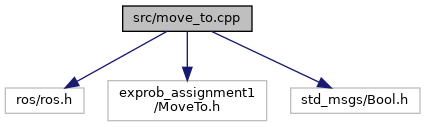
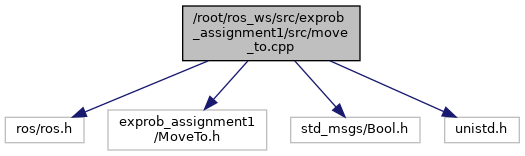
documentation updated

Changed region(s): [[0.0, 0.0236, 1.0, 0.9685], [0.5812, 0.4724, 0.6118, 0.5906], [0.3059, 0.4724, 0.3365, 0.5197]]

diff --git a/documentation/html/md__root_ros_ws_src_exprob_assignment1__r_e_a_d_m_e.html b/documentation/html/md__root_ros_ws_src_exprob_assignment1__r_e_a_d_m_e.html
@@ -1,0 +1,168 @@
+<!DOCTYPE html PUBLIC "-//W3C//DTD XHTML 1.0 Transitional//EN" "https://www.w3.org/TR/xhtml1/DTD/xhtml1-transitional.dtd">
+<html xmlns="http://www.w3.org/1999/xhtml">
+<head>
+<meta http-equiv="Content-Type" content="text/xhtml;charset=UTF-8"/>
+<meta http-equiv="X-UA-Compatible" content="IE=9"/>
+<meta name="generator" content="Doxygen 1.8.17"/>
+<meta name="viewport" content="width=device-width, initial-scale=1"/>
+<title>exprob_assignment1: EXPERIMENTAL ROBOTICS LABORATORY - ASSIGNMENT 1</title>
+<link href="tabs.css" rel="stylesheet" type="text/css"/>
+<script type="text/javascript" src="jquery.js"></script>
+<script type="text/javascript" src="dynsections.js"></script>
+<link href="search/search.css" rel="stylesheet" type="text/css"/>
+<script type="text/javascript" src="search/searchdata.js"></script>
+<script type="text/javascript" src="search/search.js"></script>
+<link href="doxygen.css" rel="stylesheet" type="text/css" />
+</head>
+<body>
+<div id="top"><!-- do not remove this div, it is closed by doxygen! -->
+<div id="titlearea">
+<table cellspacing="0" cellpadding="0">
+ <tbody>
+ <tr style="height: 56px;">
+  <td id="projectalign" style="padding-left: 0.5em;">
+   <div id="projectname">exprob_assignment1
+   </div>
+   <div id="projectbrief">Package for the Experimental Robotics Laboratory Course</div>
+  </td>
+ </tr>
+ </tbody>
+</table>
+</div>
+<!-- end header part -->
+<!-- Generated by Doxygen 1.8.17 -->
+<script type="text/javascript">
+/* @license magnet:?xt=urn:btih:cf05388f2679ee054f2beb29a391d25f4e673ac3&amp;dn=gpl-2.0.txt GPL-v2 */
+var searchBox = new SearchBox("searchBox", "search",false,'Search');
+/* @license-end */
+</script>
+<script type="text/javascript" src="menudata.js"></script>
+<script type="text/javascript" src="menu.js"></script>
+<script type="text/javascript">
+/* @license magnet:?xt=urn:btih:cf05388f2679ee054f2beb29a391d25f4e673ac3&amp;dn=gpl-2.0.txt GPL-v2 */
+$(function() {
+  initMenu('',true,false,'search.php','Search');
+  $(document).ready(function() { init_search(); });
+});
+/* @license-end */</script>
+<div id="main-nav"></div>
+<!-- window showing the filter options -->
+<div id="MSearchSelectWindow"
+     onmouseover="return searchBox.OnSearchSelectShow()"
+     onmouseout="return searchBox.OnSearchSelectHide()"
+     onkeydown="return searchBox.OnSearchSelectKey(event)">
+</div>
+
+<!-- iframe showing the search results (closed by default) -->
+<div id="MSearchResultsWindow">
+<iframe src="javascript:void(0)" frameborder="0" 
+        name="MSearchResults" id="MSearchResults">
+</iframe>
+</div>
+
+</div><!-- top -->
+<div class="PageDoc"><div class="header">
+  <div class="headertitle">
+<div class="title">EXPERIMENTAL ROBOTICS LABORATORY - ASSIGNMENT 1 </div>  </div>
+</div><!--header-->
+<div class="contents">
+<div class="textblock"><h1><a class="anchor" id="autotoc_md1"></a>
+BRIEF INTRODUCTION</h1>
+<p>This project implements the game of Cluedo played by a robot that has to explore an unknown environment searching for hints. The robot should move in every room to look for hints and when a new hypothesis is ready to be made it should return to the starting location and ask if the hypothesis is correct. </p>
+<h1><a class="anchor" id="autotoc_md2"></a>
+SOFTWARE ARCHITECTURE</h1>
+<p><img src="https://github.com/ZoeBetta/exprob_assignment1/blob/main/Images/Architecture.jpg?raw=true" alt="architecture of the software" class="inline"/> <br  />
+</p>
+<p>This architecture is composed of four nodes. Three of them are written in c++ language (robot, oracle and moveto) and the remaining one in python (hint). The communications between the different nodes are implemented either as ros publisher subscriber, when we do not want to guarantee the synchronization between the nodes, or as ros services and clients when we need the actions to be synchronized. The only node that communicates with the ontology is the hint node that, using the armor server, is able to access and modify the ontology. <br  />
+</p>
+<p><img src="https://github.com/ZoeBetta/exprob_assignment1/blob/main/Images/RobotStateDiagram.jpg?raw=true" alt="state diagram for the program" class="inline"/> <br  />
+</p>
+<p>At the beginning of the program the robot is in the state move to. If no hypothesis is received the robot moves to a random room looking for hints. From there if a new hint is received the hint is elaborated and the ontology checked for new hypothesis. AFter that, even if no hint is received the robot returns to the move state to either move to a new random room or move home if an hypothesis is retrieved. If the robot received an hypothesis it moves home and when reached it goes to the state asking if the hypothesis is correct; from there if the hypothesis is correct it stops because the goal has been reached, if instead the hypothesis is wrong it goes back to the move to state. <br  />
+</p>
+<p><img src="https://github.com/ZoeBetta/exprob_assignment1/blob/main/Images/SequenceDiagram.jpg?raw=true" alt="sequence diagram for the program" class="inline"/> <br  />
+</p>
+<p>At the beginnign the robot needs to move to a new random room. To do so it sends a request to the server MoveTo implemented in the moveto node. When the robot node receives the response that it reached the room it publishes true on the topic /reached, said topic is read by the subscriber in the node oracle. The oracle then randomly decides wheater to send a hint or not ( it generates a random number between 1 and 10 and if the number is grater than 3 it sends a hint ) and then randomly decides which hint to send. The hint is then sent with the publisher on the topic /hint, the node hint implements the subscriber for the topic /hint. To be noticed is that there is not the need for the robot to synchronize to the generation of hints, the robot waits a given amount of time ( in this case 0.5 second ) to simulate the activity of searching for hints in a room and then moves to another room. When a hint is received on the topic /hint the <a class="el" href="hint_8py.html" title="This program elaborates the hints received.">hint.py</a> node elaborates it and checks in the ontology if a new hypothesis can be made, in case no new hypothesis can be made it just starts waiting again for a new hint. If instead an hypothesis can be made it publishes it on the topic /hypotesis that is read by the subscriber implemented in the robot node. The robot node then makes a request to the service implemented in the oracle node to discover if the hypothesis received is the correct one. If the node answers true than the program ends, if instead the hypothesis is wrong the robot keeps searching for new hints.</p>
+<h1><a class="anchor" id="autotoc_md3"></a>
+INSTALLATION AND RUNNING PROCEDURE</h1>
+<p>In order to run this code it is necessary to have istalled in the same workspace the package armor that allows for the comunication and the handling of the ontology. Once the package is in the workspace it is mandatory to build it using the instruction in the github repository at the following link: In particular it is necessary to run the following command <code>./gradlew deployApp</code> in the armor folder. Also before running the program is good practice to check if the ontology file is present in the package folder and if the path specified in the file <a class="el" href="hint_8py.html" title="This program elaborates the hints received.">hint.py</a> ( that can be found inside the folder scripts ) is correct. The place where to change the path is signalled by two lines of code in all caps that specify that the following variable is the path. If there is the need to change the hints that can be received they are defined in the file <a class="el" href="oracle_8cpp.html" title="It sends random hints and checks if the hypothesis is the correct one.">oracle.cpp</a> in the folder src. The hints are formatted in the following way: each hint is a single string ID/class_type/name. Where class type can be who, what or where. If the total number of hint is changed be sure to change the dimension of the array and the maximum random number to be generated. Both these things are signalled by a line of code in all caps in correspondance to the line to change. Once completed all the previous steps to run the code it is sufficent to run in the workspace directory:</p><ol type="1">
+<li>catkin_make -&gt; to build the code and the dependencies</li>
+<li>roslaunch exprob_assignment1 sim.launch -&gt; to run the actual code When the process robot finishes it is necessary to end the program manually by pressing Ctr+C. </li>
+</ol>
+<h1><a class="anchor" id="autotoc_md4"></a>
+HOW THE CODE RUNS</h1>
+<p><img src="https://github.com/ZoeBetta/exprob_assignment1/blob/main/Images/Locations.jpg?raw=true" alt="diagram of the locations of the rooms" class="inline"/> <br  />
+ In the image above a schematic representation of the locations that are reachable by the robot in the program. The name of the places and even the coordinates are inspired by the Cluedo Game Board. For what concerns the persons and the weapons I used the names present in the game. The complete list of all the possible elements of hints is the following:</p><ul>
+<li>Suspected Person<ul>
+<li>Rev. Green</li>
+<li>Prof. Plum</li>
+<li>Col. Mustard</li>
+<li>Mrs. Peacock</li>
+<li>Miss. Scarlet</li>
+<li>Mrs. White</li>
+</ul>
+</li>
+<li>Probable Implements<ul>
+<li>Candlestick</li>
+<li>Dagger</li>
+<li>Lead Pipe</li>
+<li>Revolver</li>
+<li>Rope</li>
+<li>Spanner</li>
+</ul>
+</li>
+<li>Suspected Scene of Murder<ul>
+<li>Conservatory</li>
+<li>Lounge</li>
+<li>Kitchen</li>
+<li>Library</li>
+<li>Hall</li>
+<li>Study</li>
+<li>Ballroom</li>
+<li>Dining Room</li>
+<li>Billiard Room <br  />
+</li>
+</ul>
+</li>
+</ul>
+<p>All the possible hints that can be send are declared in the oracle node and there are hints whith the correct number of elements ( one person, one place, one weapon ), hint with more elements than required, hints with less elements than required. Hints are declared as a string that cointains the ID of the hint, the type of hint and the name of the specific instance, the elements are divided by the character '/'; for example "ID5/what/Rope". <br  />
+ In the following image we can see the normal output produed by the system while it is running: <br  />
+ <img src="https://github.com/ZoeBetta/exprob_assignment1/blob/main/Images/NormalBehaviour.jpg?raw=true" alt="Normal output behaviour" class="inline"/> <br  />
+ We can notice that the robot declares the requested position and synchronously it might receive an hint, the ID of the received hint is printed on the screen by the node hint. This synchronization is not forced and it is not needed for the correct behaviour of the architecture, it happens sinche the waiting times are long. By decreasing the waiting times, to for example 20 milliseconds we can notice that the hints received are no more synchronized and, when the system stops moving because the correc hypothesis is produced the robot stops moving but some hints keep being processed since there were more hints than the one processed and so the system fills the queue and before stopping it empties it. When a hypothesis is found that is both complete and consistent the hypothesis is printed on the screen and sent to the robot node. The robot moves to the Home location, at coordinates (0,0) and makes a request to the oracle server and prints if the hypothesis is correct or not. If it is wrong the robot starts moving again in other rooms to look for other hints. We can also notice that we don't receive a hint everytime the robot reaches a room, in those cases there is not anID in correspondance of a location to be reached. <br  />
+ In the following picture what happens when the correct hypothesis is sent. <br  />
+ <img src="https://github.com/ZoeBetta/exprob_assignment1/blob/main/Images/Final.jpg?raw=true" alt="Output for correct hypothesis" class="inline"/> <br  />
+ When an hypothesis is correct the system replies with correct hypothesis and prints on the screen the hypothesis presented in the classical Cluedo way. At that point the robot nodes finishes and stops. <br  />
+ I noticed that even if I had hints that were created with more than the correct amount of entities, if the system receives first three elements that are coherent ( one person, one weapon, one place ) it is able to send the hypothesis and check its correctness. For example the hint identified by ID8 is composed of: "ID8/who/Col. Mustard", "ID8/what/Candlestick","ID8/where/Dining Room", "ID8/who/Miss. Scarlet"; and so two possible suspects instead of one, it still sent the hypothesis and retrieves from it. <br  />
+ <img src="https://github.com/ZoeBetta/exprob_assignment1/blob/main/Images/ID8.jpg?raw=true" alt="Output for wrong hypothesis" class="inline"/> <br  />
+ </p>
+<h1><a class="anchor" id="autotoc_md5"></a>
+WORKING HYPOTHESIS</h1>
+<p>This system is semplified in order to have a structure that can be changed easily and improved as needed. It is assumed that the hints are from a finite set of possibilities that does not change in time, the winning hypothesis is fixed and can be changed only manually by working on the code. The node that should implement the movement to a location is simply a wait to simulate the motion without actually implementing it, we assume it takes some time to reach the room and that we don't have any obstacle. </p>
+<h2><a class="anchor" id="autotoc_md6"></a>
+SYSTEM'S FEATURES</h2>
+<p>The system is really flexible and is able to handle random hints received at random times. It also handles possible mistakes. In order to have a faster system it also saves the hypothesis that have already been made and it avoids repeating them, this prevents the robot from moving to home pointlessly every time it receives a hint from an hypothesis that is already been checked. <br  />
+ This system implements the randomness by using the rand function and the srand function. The srand is used to change the seed of the random function, it takes as input the time of the system and so the seed changes at every run of the code. By changing the seed we can ensure that the random number that are generated each time are different and different situations can be tested by running the code multiple times. </p>
+<h2><a class="anchor" id="autotoc_md7"></a>
+SYSTEM LIMITATIONS</h2>
+<p>The list of possible hints and the winning hypothesis is hard coded into the file <a class="el" href="oracle_8cpp.html" title="It sends random hints and checks if the hypothesis is the correct one.">oracle.cpp</a> making it harder to change and modify if needed. Another limitation is that since the movement system is just a wait there is no way for the user to follow the movement of the robot in a graphical way. This makes the understanding of the problem harder to understand from a user point of view. <br  />
+ Another problem that arises is that when the robot finds the correct hypothesis it turns off and it is not able to generate a new correct hypothesis and keep looking for hints again. </p>
+<h2><a class="anchor" id="autotoc_md8"></a>
+POSSIBLE TECHNICAL IMPROVMENTS</h2>
+<p>A future improvment will be for sure implementing the motion and provide the user with a graphical way to see where the robot is moving and what is the current state of the program in a more intuitive way. <br  />
+ Another improvment that can be made is the handling of the end of the robot process. There are two possible solutions: one is terminating in an automatic way all running nodes, this poses a problem on how to terminate the armor server that is started in the launch file. Another solution could be deleting all saved information from last game and start a new game with a new solution, this implies a way to check if the hypothesis requested is a complete and consistent one. </p>
+<h1><a class="anchor" id="autotoc_md9"></a>
+CONTACTS</h1>
+<p>Author: Zoe Betta <br  />
+</p>
+<p>E-mail: <a href="#" onclick="location.href='mai'+'lto:'+'zoe'+'.b'+'ett'+'a@'+'gma'+'il'+'.co'+'m'; return false;">zoe.b<span style="display: none;">.nosp@m.</span>etta<span style="display: none;">.nosp@m.</span>@gmai<span style="display: none;">.nosp@m.</span>l.co<span style="display: none;">.nosp@m.</span>m</a> <br  />
+</p>
+<p>E-mail: <a href="#" onclick="location.href='mai'+'lto:'+'s50'+'63'+'114'+'@s'+'tud'+'en'+'ti.'+'un'+'ige'+'.i'+'t'; return false;">s5063<span style="display: none;">.nosp@m.</span>114@<span style="display: none;">.nosp@m.</span>stude<span style="display: none;">.nosp@m.</span>nti.<span style="display: none;">.nosp@m.</span>unige<span style="display: none;">.nosp@m.</span>.it</a> </p>
+</div></div><!-- contents -->
+</div><!-- PageDoc -->
+<!-- start footer part -->
+<hr class="footer"/><address class="footer"><small>
+Generated by &#160;<a href="http://www.doxygen.org/index.html">
+<img class="footer" src="doxygen.png" alt="doxygen"/>
+</a> 1.8.17
+</small></address>
+</body>
+</html>

diff --git a/documentation/html/oracle_8cpp.html b/documentation/html/oracle_8cpp.html
@@ -5,7 +5,7 @@
 <meta http-equiv="X-UA-Compatible" content="IE=9"/>
 <meta name="generator" content="Doxygen 1.8.17"/>
 <meta name="viewport" content="width=device-width, initial-scale=1"/>
-<title>exprob_assignment1: src/oracle.cpp File Reference</title>
+<title>exprob_assignment1: /root/ros_ws/src/exprob_assignment1/src/oracle.cpp File Reference</title>
 <link href="tabs.css" rel="stylesheet" type="text/css"/>
 <script type="text/javascript" src="jquery.js"></script>
 <script type="text/javascript" src="dynsections.js"></script>
@@ -86,16 +86,16 @@ $(function() {
 </div><div class="textblock"><div class="dynheader">
 Include dependency graph for oracle.cpp:</div>
 <div class="dyncontent">
-<div class="center"><img src="oracle_8cpp__incl.png" border="0" usemap="#src_2oracle_8cpp" alt=""/></div>
-<map name="src_2oracle_8cpp" id="src_2oracle_8cpp">
-<area shape="rect" title="It sends random hints and checks if the hypothesis is the correct one." alt="" coords="402,5,514,32"/>
-<area shape="rect" title=" " alt="" coords="5,87,84,114"/>
-<area shape="rect" title=" " alt="" coords="109,87,247,114"/>
-<area shape="rect" title=" " alt="" coords="272,87,401,114"/>
-<area shape="rect" title=" " alt="" coords="425,87,491,114"/>
-<area shape="rect" title=" " alt="" coords="515,80,673,121"/>
-<area shape="rect" title=" " alt="" coords="697,87,768,114"/>
-<area shape="rect" title=" " alt="" coords="793,87,851,114"/>
+<div class="center"><img src="oracle_8cpp__incl.png" border="0" usemap="#_2root_2ros__ws_2src_2exprob__assignment1_2src_2oracle_8cpp" alt=""/></div>
+<map name="_2root_2ros__ws_2src_2exprob__assignment1_2src_2oracle_8cpp" id="_2root_2ros__ws_2src_2exprob__assignment1_2src_2oracle_8cpp">
+<area shape="rect" title="It sends random hints and checks if the hypothesis is the correct one." alt="" coords="355,5,561,47"/>
+<area shape="rect" title=" " alt="" coords="5,102,84,129"/>
+<area shape="rect" title=" " alt="" coords="109,102,247,129"/>
+<area shape="rect" title=" " alt="" coords="272,102,401,129"/>
+<area shape="rect" title=" " alt="" coords="425,102,491,129"/>
+<area shape="rect" title=" " alt="" coords="515,95,673,136"/>
+<area shape="rect" title=" " alt="" coords="697,102,768,129"/>
+<area shape="rect" title=" " alt="" coords="793,102,851,129"/>
 </map>
 </div>
 </div><table class="memberdecls">
@@ -297,16 +297,16 @@ ros::Publisher&#160;</td><td class="memItemRight" valign="bottom"><b>hint_pub</b
         </tr>
       </table>
 </div><div class="memdoc">
-<b>Initial value:</b><div class="fragment"><div class="line">={<span class="stringliteral">&quot;ID1/who/green&quot;</span>, <span class="stringliteral">&quot;ID1/what/candlestick&quot;</span>,<span class="stringliteral">&quot;ID1/where/conservatory&quot;</span>, </div>
-<div class="line">    <span class="stringliteral">&quot;ID2/who/Plum&quot;</span>, <span class="stringliteral">&quot;ID2/what/dagger&quot;</span>,<span class="stringliteral">&quot;ID2/where/lounge&quot;</span>,</div>
-<div class="line">    <span class="stringliteral">&quot;ID3/who/Mustard&quot;</span>, <span class="stringliteral">&quot;ID3/what/pipe&quot;</span>,<span class="stringliteral">&quot;ID3/where/kitchen&quot;</span>, <span class="stringliteral">&quot;ID3/what/rope&quot;</span>, </div>
-<div class="line">    <span class="stringliteral">&quot;ID4/who/Peacock&quot;</span>, <span class="stringliteral">&quot;ID4/what/revolver&quot;</span>,<span class="stringliteral">&quot;ID4/where/library&quot;</span>, </div>
-<div class="line">    <span class="stringliteral">&quot;ID5/who/Scarlet&quot;</span>, <span class="stringliteral">&quot;ID5/what/rope&quot;</span>, </div>
-<div class="line">    <span class="stringliteral">&quot;ID6/who/White&quot;</span>, <span class="stringliteral">&quot;ID6/what/spanner&quot;</span>,<span class="stringliteral">&quot;ID6/where/hall&quot;</span>, <span class="stringliteral">&quot;ID6/where/study&quot;</span>,    </div>
-<div class="line">    <span class="stringliteral">&quot;ID7/who/Plum&quot;</span>, <span class="stringliteral">&quot;ID7/what/dagger&quot;</span>,<span class="stringliteral">&quot;ID7/where/ballroom&quot;</span>, </div>
-<div class="line">    <span class="stringliteral">&quot;ID8/who/Mustard&quot;</span>, <span class="stringliteral">&quot;ID8/what/candlestick&quot;</span>,<span class="stringliteral">&quot;ID8/where/diningroom&quot;</span>, <span class="stringliteral">&quot;ID8/who/Scarlet&quot;</span>,</div>
-<div class="line">    <span class="stringliteral">&quot;ID9/who/White&quot;</span>, <span class="stringliteral">&quot;ID9/what/pipe&quot;</span>,   </div>
-<div class="line">    <span class="stringliteral">&quot;ID10/who/Green&quot;</span>, <span class="stringliteral">&quot;ID10/what/revolver&quot;</span>,<span class="stringliteral">&quot;ID10/where/conservatory&quot;</span>,       </div>
+<b>Initial value:</b><div class="fragment"><div class="line">={<span class="stringliteral">&quot;ID1/who/Rev. Green&quot;</span>, <span class="stringliteral">&quot;ID1/what/Candlestick&quot;</span>,<span class="stringliteral">&quot;ID1/where/Conservatory&quot;</span>, </div>
+<div class="line">    <span class="stringliteral">&quot;ID2/who/Prof. Plum&quot;</span>, <span class="stringliteral">&quot;ID2/what/Dagger&quot;</span>,<span class="stringliteral">&quot;ID2/where/Lounge&quot;</span>,</div>
+<div class="line">    <span class="stringliteral">&quot;ID3/who/Col. Mustard&quot;</span>, <span class="stringliteral">&quot;ID3/what/Lead Pipe&quot;</span>,<span class="stringliteral">&quot;ID3/where/Kitchen&quot;</span>, <span class="stringliteral">&quot;ID3/what/Rope&quot;</span>, </div>
+<div class="line">    <span class="stringliteral">&quot;ID4/who/Mrs. Peacock&quot;</span>, <span class="stringliteral">&quot;ID4/what/Revolver&quot;</span>,<span class="stringliteral">&quot;ID4/where/Library&quot;</span>,    </div>
+<div class="line">    <span class="stringliteral">&quot;ID5/who/Miss. Scarlet&quot;</span>, <span class="stringliteral">&quot;ID5/what/Rope&quot;</span>,   </div>
+<div class="line">    <span class="stringliteral">&quot;ID6/who/Mrs. White&quot;</span>, <span class="stringliteral">&quot;ID6/what/Spanner&quot;</span>,<span class="stringliteral">&quot;ID6/where/Hall&quot;</span>, <span class="stringliteral">&quot;ID6/where/Study&quot;</span>,   </div>
+<div class="line">    <span class="stringliteral">&quot;ID7/who/Prof. Plum&quot;</span>, <span class="stringliteral">&quot;ID7/what/Dagger&quot;</span>,<span class="stringliteral">&quot;ID7/where/Ballroom&quot;</span>,   </div>
+<div class="line">    <span class="stringliteral">&quot;ID8/who/Col. Mustard&quot;</span>, <span class="stringliteral">&quot;ID8/what/Candlestick&quot;</span>,<span class="stringliteral">&quot;ID8/where/Dining Room&quot;</span>, <span class="stringliteral">&quot;ID8/who/Miss. Scarlet&quot;</span>,</div>
+<div class="line">    <span class="stringliteral">&quot;ID9/who/Mrs. White&quot;</span>, <span class="stringliteral">&quot;ID9/what/Lead Pipe&quot;</span>, </div>
+<div class="line">    <span class="stringliteral">&quot;ID10/who/Rev. Green&quot;</span>, <span class="stringliteral">&quot;ID10/what/Revolver&quot;</span>,<span class="stringliteral">&quot;ID10/where/Conservatory&quot;</span>,      </div>
 <div class="line">}</div>
 </div><!-- fragment -->
 </div>

diff --git a/documentation/html/pages.html b/documentation/html/pages.html
@@ -5,7 +5,7 @@
 <meta http-equiv="X-UA-Compatible" content="IE=9"/>
 <meta name="generator" content="Doxygen 1.8.17"/>
 <meta name="viewport" content="width=device-width, initial-scale=1"/>
-<title>exprob_assignment1: /root/ros_ws/src/exprob_assignment1/src Directory Reference</title>
+<title>exprob_assignment1: Related Pages</title>
 <link href="tabs.css" rel="stylesheet" type="text/css"/>
 <script type="text/javascript" src="jquery.js"></script>
 <script type="text/javascript" src="dynsections.js"></script>
@@ -46,6 +46,7 @@ $(function() {
 });
 /* @license-end */</script>
 <div id="main-nav"></div>
+</div><!-- top -->
 <!-- window showing the filter options -->
 <div id="MSearchSelectWindow"
      onmouseover="return searchBox.OnSearchSelectShow()"
@@ -60,29 +61,16 @@ $(function() {
 </iframe>
 </div>
 
-<div id="nav-path" class="navpath">
-  <ul>
-<li class="navelem"><a class="el" href="dir_68267d1309a1af8e8297ef4c3efbcdba.html">src</a></li>  </ul>
-</div>
-</div><!-- top -->
 <div class="header">
   <div class="headertitle">
-<div class="title">src Directory Reference</div>  </div>
+<div class="title">Related Pages</div>  </div>
 </div><!--header-->
 <div class="contents">
-<table class="memberdecls">
-<tr class="heading"><td colspan="2"><h2 class="groupheader"><a name="files"></a>
-Files</h2></td></tr>
-<tr class="memitem:move__to_8cpp"><td class="memItemLeft" align="right" valign="top">file &#160;</td><td class="memItemRight" valign="bottom"><a class="el" href="move__to_8cpp.html">move_to.cpp</a></td></tr>
-<tr class="memdesc:move__to_8cpp"><td class="mdescLeft">&#160;</td><td class="mdescRight">It moves to the required position. <br /></td></tr>
-<tr class="separator:"><td class="memSeparator" colspan="2">&#160;</td></tr>
-<tr class="memitem:oracle_8cpp"><td class="memItemLeft" align="right" valign="top">file &#160;</td><td class="memItemRight" valign="bottom"><a class="el" href="oracle_8cpp.html">oracle.cpp</a></td></tr>
-<tr class="memdesc:oracle_8cpp"><td class="mdescLeft">&#160;</td><td class="mdescRight">It sends random hints and checks if the hypothesis is the correct one. <br /></td></tr>
-<tr class="separator:"><td class="memSeparator" colspan="2">&#160;</td></tr>
-<tr class="memitem:robot_8cpp"><td class="memItemLeft" align="right" valign="top">file &#160;</td><td class="memItemRight" valign="bottom"><a class="el" href="robot_8cpp.html">robot.cpp</a></td></tr>
-<tr class="memdesc:robot_8cpp"><td class="mdescLeft">&#160;</td><td class="mdescRight">This file implements the robot behaviour. <br /></td></tr>
-<tr class="separator:"><td class="memSeparator" colspan="2">&#160;</td></tr>
+<div class="textblock">Here is a list of all related documentation pages:</div><div class="directory">
+<table class="directory">
+<tr id="row_0_" class="even"><td class="entry"><span style="width:16px;display:inline-block;">&#160;</span><a class="el" href="md__root_ros_ws_src_exprob_assignment1__r_e_a_d_m_e.html" target="_self">EXPERIMENTAL ROBOTICS LABORATORY - ASSIGNMENT 1</a></td><td class="desc"></td></tr>
 </table>
+</div><!-- directory -->
 </div><!-- contents -->
 <!-- start footer part -->
 <hr class="footer"/><address class="footer"><small>

diff --git a/documentation/html/robot_8cpp.html b/documentation/html/robot_8cpp.html
@@ -5,7 +5,7 @@
 <meta http-equiv="X-UA-Compatible" content="IE=9"/>
 <meta name="generator" content="Doxygen 1.8.17"/>
 <meta name="viewport" content="width=device-width, initial-scale=1"/>
-<title>exprob_assignment1: src/robot.cpp File Reference</title>
+<title>exprob_assignment1: /root/ros_ws/src/exprob_assignment1/src/robot.cpp File Reference</title>
 <link href="tabs.css" rel="stylesheet" type="text/css"/>
 <script type="text/javascript" src="jquery.js"></script>
 <script type="text/javascript" src="dynsections.js"></script>
@@ -84,20 +84,22 @@ $(function() {
 <code>#include &quot;std_msgs/String.h&quot;</code><br />
 <code>#include &lt;string&gt;</code><br />
 <code>#include &lt;ctime&gt;</code><br />
+<code>#include &lt;unistd.h&gt;</code><br />
 </div><div class="textblock"><div class="dynheader">
 Include dependency graph for robot.cpp:</div>
 <div class="dyncontent">
-<div class="center"><img src="robot_8cpp__incl.png" border="0" usemap="#src_2robot_8cpp" alt=""/></div>
-<map name="src_2robot_8cpp" id="src_2robot_8cpp">
-<area shape="rect" title="This file implements the robot behaviour." alt="" coords="561,5,667,32"/>
-<area shape="rect" title=" " alt="" coords="5,87,84,114"/>
-<area shape="rect" title=" " alt="" coords="108,80,267,121"/>
-<area shape="rect" title=" " alt="" coords="291,87,420,114"/>
-<area shape="rect" title=" " alt="" coords="444,80,603,121"/>
-<area shape="rect" title=" " alt="" coords="627,80,785,121"/>
-<area shape="rect" title=" " alt="" coords="810,87,949,114"/>
-<area shape="rect" title=" " alt="" coords="973,87,1031,114"/>
-<area shape="rect" title=" " alt="" coords="1055,87,1114,114"/>
+<div class="center"><img src="robot_8cpp__incl.png" border="0" usemap="#_2root_2ros__ws_2src_2exprob__assignment1_2src_2robot_8cpp" alt=""/></div>
+<map name="_2root_2ros__ws_2src_2exprob__assignment1_2src_2robot_8cpp" id="_2root_2ros__ws_2src_2exprob__assignment1_2src_2robot_8cpp">
+<area shape="rect" title="This file implements the robot behaviour." alt="" coords="605,5,807,47"/>
+<area shape="rect" title=" " alt="" coords="5,102,84,129"/>
+<area shape="rect" title=" " alt="" coords="108,95,267,136"/>
+<area shape="rect" title=" " alt="" coords="291,102,420,129"/>
+<area shape="rect" title=" " alt="" coords="444,95,603,136"/>
+<area shape="rect" title=" " alt="" coords="627,95,785,136"/>
+<area shape="rect" title=" " alt="" coords="810,102,949,129"/>
+<area shape="rect" title=" " alt="" coords="973,102,1031,129"/>
+<area shape="rect" title=" " alt="" coords="1055,102,1114,129"/>
+<area shape="rect" title=" " alt="" coords="1138,102,1213,129"/>
 </map>
 </div>
 </div><table class="memberdecls">

diff --git a/documentation/html/move__to_8cpp.html b/documentation/html/move__to_8cpp.html
@@ -5,7 +5,7 @@
 <meta http-equiv="X-UA-Compatible" content="IE=9"/>
 <meta name="generator" content="Doxygen 1.8.17"/>
 <meta name="viewport" content="width=device-width, initial-scale=1"/>
-<title>exprob_assignment1: src/move_to.cpp File Reference</title>
+<title>exprob_assignment1: /root/ros_ws/src/exprob_assignment1/src/move_to.cpp File Reference</title>
 <link href="tabs.css" rel="stylesheet" type="text/css"/>
 <script type="text/javascript" src="jquery.js"></script>
 <script type="text/javascript" src="dynsections.js"></script>
@@ -78,15 +78,17 @@ $(function() {
 <div class="textblock"><code>#include &quot;ros/ros.h&quot;</code><br />
 <code>#include &quot;exprob_assignment1/MoveTo.h&quot;</code><br />
 <code>#include &quot;std_msgs/Bool.h&quot;</code><br />
+<code>#include &lt;unistd.h&gt;</code><br />
 </div><div class="textblock"><div class="dynheader">
 Include dependency graph for move_to.cpp:</div>
 <div class="dyncontent">
-<div class="center"><img src="move__to_8cpp__incl.png" border="0" usemap="#src_2move__to_8cpp" alt=""/></div>
-<map name="src_2move__to_8cpp" id="src_2move__to_8cpp">
-<area shape="rect" title="It moves to the required position." alt="" coords="123,5,252,32"/>
-<area shape="rect" title=" " alt="" coords="5,87,84,114"/>
-<area shape="rect" title=" " alt="" coords="108,80,267,121"/>
-<area shape="rect" title=" " alt="" coords="291,87,420,114"/>
+<div class="center"><img src="move__to_8cpp__incl.png" border="0" usemap="#_2root_2ros__ws_2src_2exprob__assignment1_2src_2move__to_8cpp" alt=""/></div>
+<map name="_2root_2ros__ws_2src_2exprob__assignment1_2src_2move__to_8cpp" id="_2root_2ros__ws_2src_2exprob__assignment1_2src_2move__to_8cpp">
+<area shape="rect" title="It moves to the required position." alt="" coords="183,5,360,61"/>
+<area shape="rect" title=" " alt="" coords="5,117,84,143"/>
+<area shape="rect" title=" " alt="" coords="108,109,267,151"/>
+<area shape="rect" title=" " alt="" coords="291,117,420,143"/>
+<area shape="rect" title=" " alt="" coords="445,117,519,143"/>
 </map>
 </div>
 </div><table class="memberdecls">

diff --git a/documentation/html/hint_8py.html b/documentation/html/hint_8py.html
@@ -5,7 +5,7 @@
 <meta http-equiv="X-UA-Compatible" content="IE=9"/>
 <meta name="generator" content="Doxygen 1.8.17"/>
 <meta name="viewport" content="width=device-width, initial-scale=1"/>
-<title>exprob_assignment1: scripts/hint.py File Reference</title>
+<title>exprob_assignment1: /root/ros_ws/src/exprob_assignment1/scripts/hint.py File Reference</title>
 <link href="tabs.css" rel="stylesheet" type="text/css"/>
 <script type="text/javascript" src="jquery.js"></script>
 <script type="text/javascript" src="dynsections.js"></script>

diff --git a/documentation/html/dir_53e6fa9553ac22a5646d2a2b2d7b97a1.html b/documentation/html/dir_53e6fa9553ac22a5646d2a2b2d7b97a1.html
@@ -5,7 +5,7 @@
 <meta http-equiv="X-UA-Compatible" content="IE=9"/>
 <meta name="generator" content="Doxygen 1.8.17"/>
 <meta name="viewport" content="width=device-width, initial-scale=1"/>
-<title>exprob_assignment1: scripts Directory Reference</title>
+<title>exprob_assignment1: /root/ros_ws/src/exprob_assignment1/scripts Directory Reference</title>
 <link href="tabs.css" rel="stylesheet" type="text/css"/>
 <script type="text/javascript" src="jquery.js"></script>
 <script type="text/javascript" src="dynsections.js"></script>

diff --git a/documentation/html/menudata.js b/documentation/html/menudata.js
@@ -22,6 +22,7 @@ for the JavaScript code in this file
 */
 var menudata={children:[
 {text:"Main Page",url:"index.html"},
+{text:"Related Pages",url:"pages.html"},
 {text:"Files",url:"files.html",children:[
 {text:"File List",url:"files.html"},
 {text:"File Members",url:"globals.html",children:[
